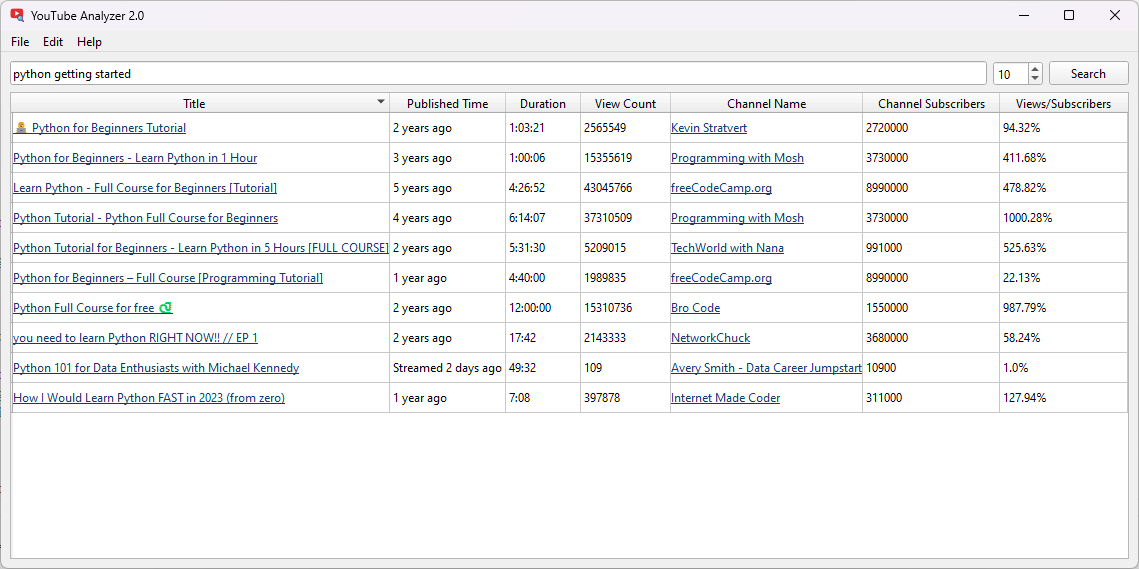
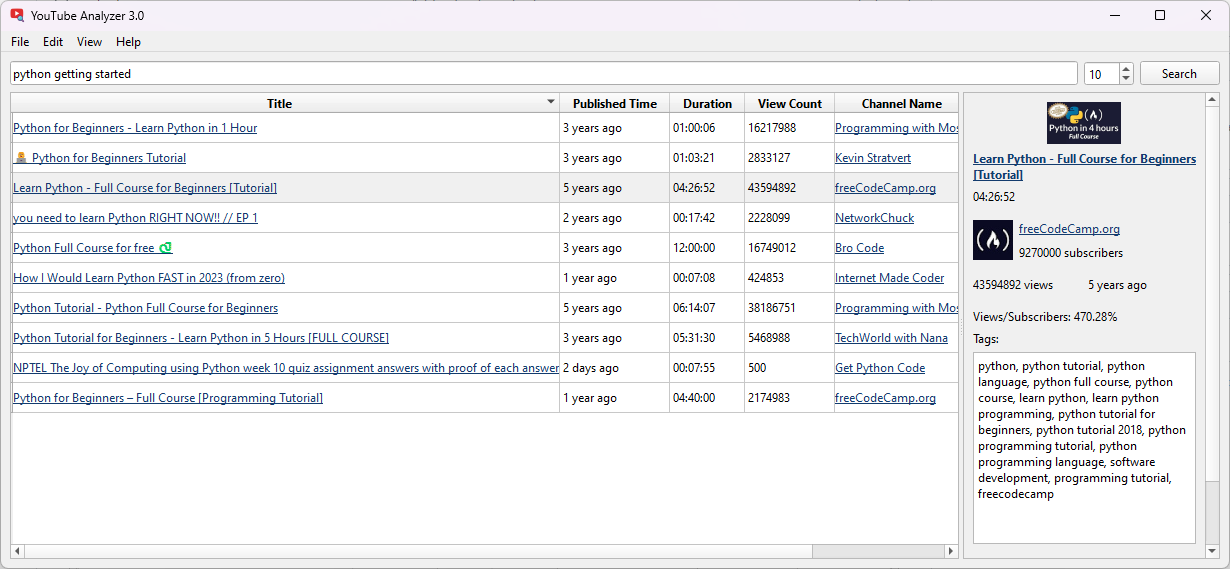
Update readme

diff --git a/README.md b/README.md
@@ -9,8 +9,9 @@ Based on `youtubesearchpython` and `PySide6`.
 ## Features
 
 - Show YouTube search result in the table with a lot of video parameters.
-- Export search result to XLSX and CSV.
+- Export search result to XLSX, CSV and HTML.
 - YouTube API support (just set API key in the preferences).
+- Show video preview and video tags.
 
 ## Usage
 
